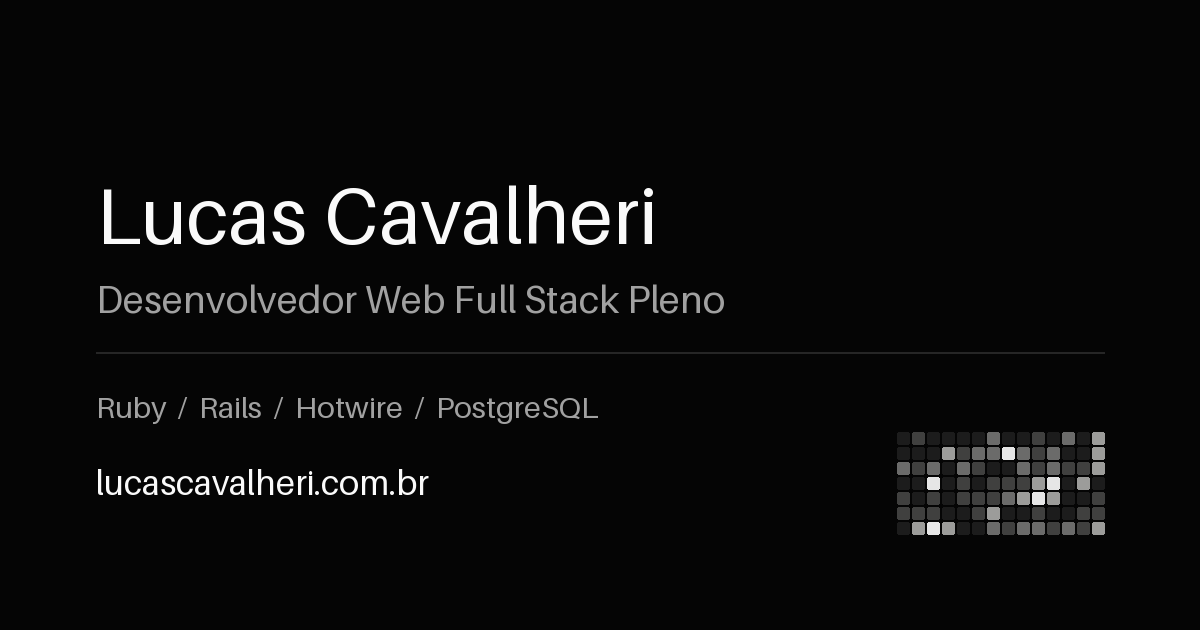
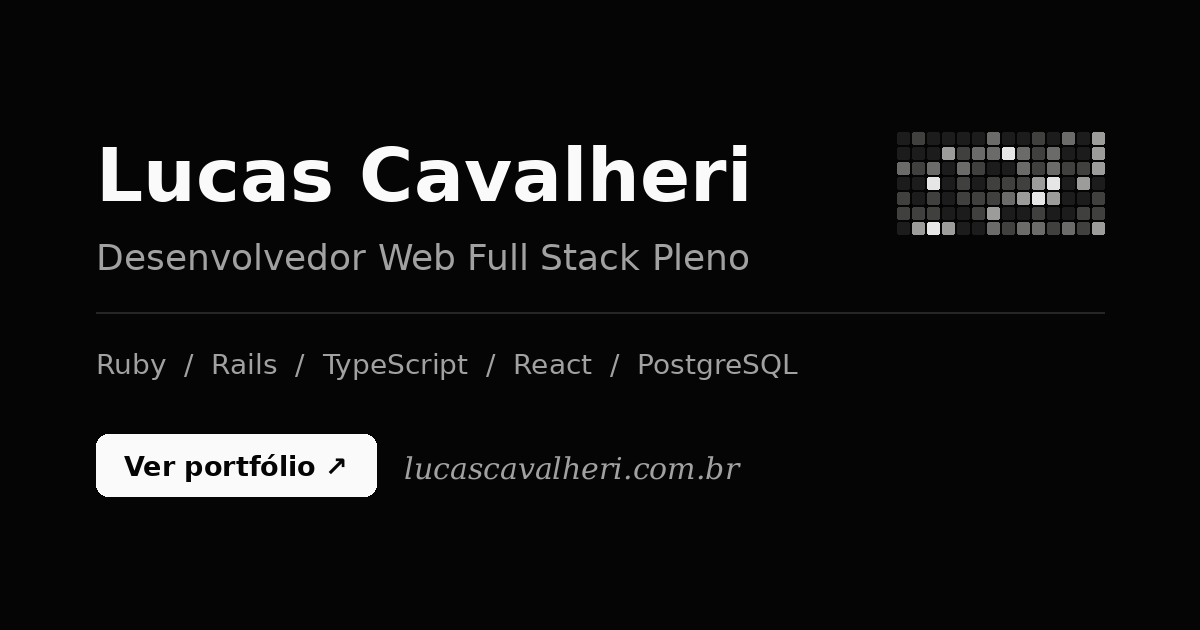
feat(site): social card with a call to action, softer micro-animations
- redraw og.png with a "Ver portfólio" button, the role and the domain,
  and fix the font lookup that was falling back to PIL's default (the
  accented ó and the arrow rendered as boxes)
- add og:site_name, og:image dimensions and alt text
- say "Pleno" in the title and descriptions, not only in the image
- copy button: the clipboard icon scales out while a check scales in, and
  the label slides up on each change
- avatar: the image and the glow had border-radius: inherit, which never
  animates, so the corners snapped. Give them their own value and easing,
  and let the outline follow the same curve

The copy button CSS first went in silently unapplied: the anchor selector
it targeted had moved to the layout in an earlier commit.

diff --git a/src/scripts/copiar-email.ts b/src/scripts/copiar-email.ts
@@ -10,18 +10,28 @@ if (botao && rotulo) {
     const email = botao.dataset.email;
     if (!email) return;
     let espera = 1500;
+    // Reinicia a animação de entrada a cada troca de texto
+    const trocar = (texto: string) => {
+      rotulo.textContent = texto;
+      rotulo.style.animation = "none";
+      void rotulo.offsetWidth;
+      rotulo.style.animation = "";
+    };
+
     try {
       await navigator.clipboard.writeText(email);
-      rotulo.textContent = "copiado";
+      botao.dataset.copiado = "true";
+      trocar("copiado");
     } catch {
       // Sem permissão de área de transferência: mostra o e-mail para
       // copiar à mão, e por mais tempo.
-      rotulo.textContent = email;
+      trocar(email);
       espera = 4000;
     }
     window.clearTimeout(voltar);
     voltar = window.setTimeout(() => {
-      rotulo.textContent = textoOriginal;
+      delete botao.dataset.copiado;
+      trocar(textoOriginal);
     }, espera);
   });
 }
